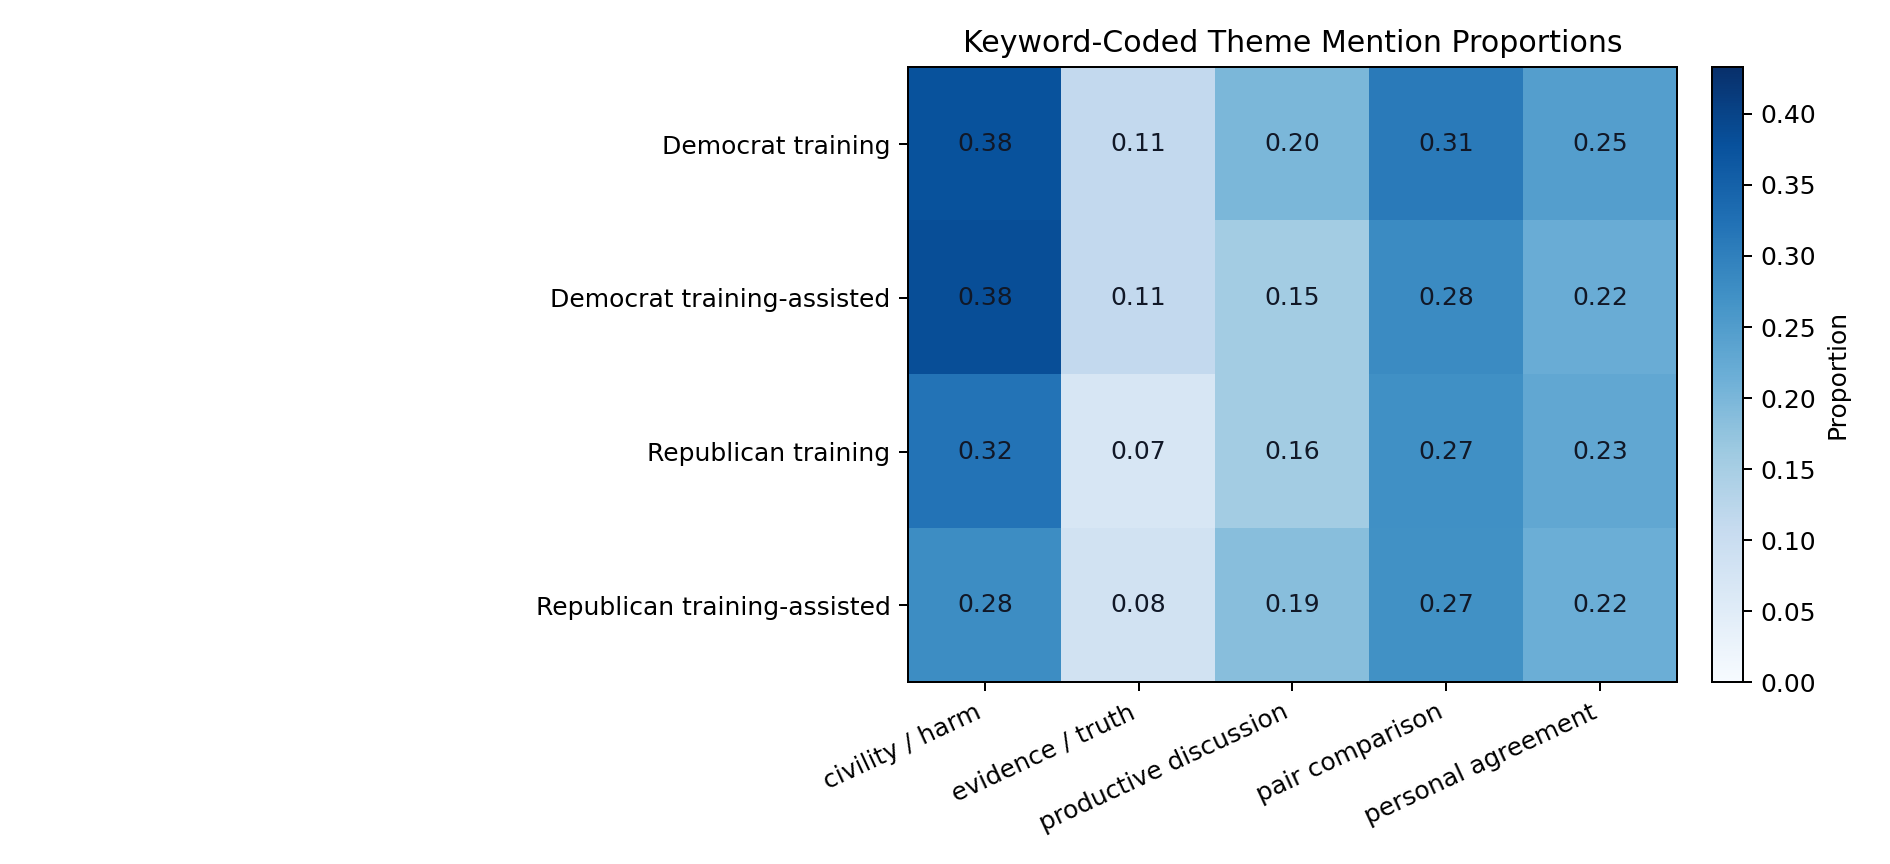
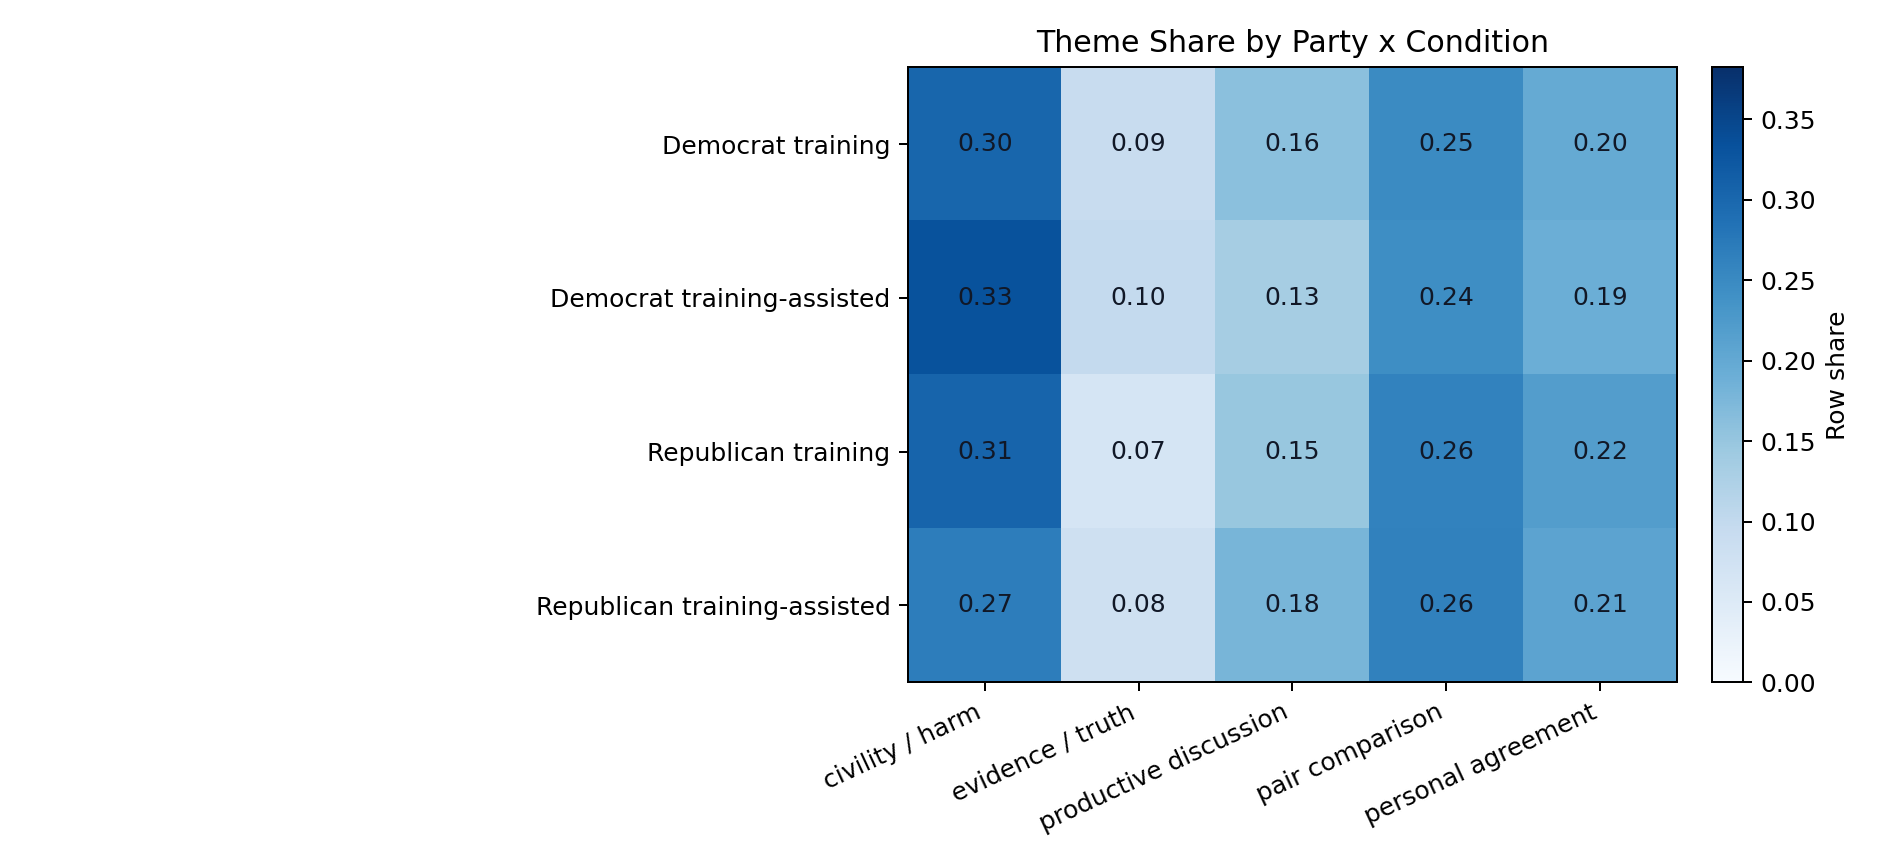
Add cleaned-up analysis

diff --git a/experiments/free_response_analysis_2026_04_28/main.py b/experiments/free_response_analysis_2026_04_28/main.py
@@ -419,14 +419,26 @@ def group_label(key: tuple[str, str]) -> str:
 
 def save_mean_influence_plot(df: pd.DataFrame) -> Path:
     keys = ordered_group_keys(df)
-    means = [
-        df.loc[(df["party_group"] == party) & (df["condition"] == condition), INFLUENCE_COL].mean()
-        for party, condition in keys
-    ]
+    means: list[float] = []
+    ci95_half_widths: list[float] = []
+    for party, condition in keys:
+        values = df.loc[(df["party_group"] == party) & (df["condition"] == condition), INFLUENCE_COL]
+        means.append(float(values.mean()))
+        std = float(values.std(ddof=1))
+        n = int(values.shape[0])
+        se = safe_divide(std, math.sqrt(n))
+        ci95_half_widths.append(1.96 * se)
     colors = ["#4C78A8" if party == "democrat" else "#F58518" for party, _ in keys]
 
     fig, ax = plt.subplots(figsize=(8.5, 5.2))
-    bars = ax.bar(range(len(keys)), means, color=colors)
+    bars = ax.bar(
+        range(len(keys)),
+        means,
+        yerr=ci95_half_widths,
+        capsize=6,
+        ecolor="#374151",
+        color=colors,
+    )
     ax.set_title("Mean Phase 1 Pair-Reflection Influence Rating")
     ax.set_ylabel("Mean rating (1-7)")
     ax.set_ylim(0, 7)
@@ -444,23 +456,26 @@ def save_mean_influence_plot(df: pd.DataFrame) -> Path:
 
 def save_rating_distribution_plot(df: pd.DataFrame) -> Path:
     keys = ordered_group_keys(df)
-    ratings = list(range(1, 8))
+    values = [
+        df.loc[(df["party_group"] == party) & (df["condition"] == condition), INFLUENCE_COL].to_numpy()
+        for party, condition in keys
+    ]
 
     fig, ax = plt.subplots(figsize=(9.5, 5.4))
-    for key in keys:
-        party, condition = key
-        group = df.loc[(df["party_group"] == party) & (df["condition"] == condition)]
-        proportions = group[INFLUENCE_COL].round().astype(int).value_counts(normalize=True)
-        y = [float(proportions.get(rating, 0.0)) for rating in ratings]
-        ax.plot(ratings, y, marker="o", linewidth=2, label=group_label(key).replace("\n", " "))
+    boxplot = ax.boxplot(
+        values,
+        tick_labels=[group_label(key) for key in keys],
+        showfliers=False,
+        patch_artist=True,
+    )
+    for box, key in zip(boxplot["boxes"], keys, strict=True):
+        box.set_facecolor("#4C78A8" if key[0] == "democrat" else "#F58518")
+        box.set_alpha(0.55)
 
-    ax.set_title("Influence Rating Distribution by Party x Condition")
-    ax.set_xlabel("Influence rating")
-    ax.set_ylabel("Proportion of responses")
-    ax.set_xticks(ratings)
-    ax.set_ylim(0, 0.32)
-    ax.grid(alpha=0.25)
-    ax.legend(frameon=False, fontsize=9)
+    ax.set_title("Rating Distribution (Box-and-Whisker)")
+    ax.set_ylabel("Influence rating (1-7)")
+    ax.set_ylim(1, 7)
+    ax.grid(axis="y", alpha=0.25)
     fig.tight_layout()
 
     path = PLOTS_DIR / "influence_rating_distribution.png"
@@ -503,17 +518,22 @@ def save_theme_heatmap(df: pd.DataFrame) -> Path:
     matrix: list[list[float]] = []
     for party, condition in keys:
         group = df.loc[(df["party_group"] == party) & (df["condition"] == condition)]
-        matrix.append([safe_divide(int(group[f"theme__{theme}"].sum()), len(group)) for theme in themes])
+        theme_counts = [int(group[f"theme__{theme}"].sum()) for theme in themes]
+        total_mentions = sum(theme_counts)
+        if total_mentions <= 0:
+            matrix.append([0.0 for _ in themes])
+        else:
+            matrix.append([count / total_mentions for count in theme_counts])
 
     fig, ax = plt.subplots(figsize=(10.5, 4.8))
     image = ax.imshow(matrix, cmap="Blues", vmin=0, vmax=max(max(row) for row in matrix) + 0.05)
-    ax.set_title("Keyword-Coded Theme Mention Proportions")
+    ax.set_title("Theme Share by Party x Condition")
     ax.set_xticks(range(len(themes)), themes, rotation=25, ha="right")
     ax.set_yticks(range(len(keys)), [group_label(key).replace("\n", " ") for key in keys])
     for row_idx, row in enumerate(matrix):
         for col_idx, value in enumerate(row):
             ax.text(col_idx, row_idx, f"{value:.2f}", ha="center", va="center", color="#111827")
-    fig.colorbar(image, ax=ax, fraction=0.035, pad=0.02, label="Proportion")
+    fig.colorbar(image, ax=ax, fraction=0.035, pad=0.02, label="Row share")
     fig.tight_layout()
 
     path = PLOTS_DIR / "theme_mentions_heatmap.png"

diff --git a/experiments/free_response_analysis_2026_04_28/WRITEUP.md b/experiments/free_response_analysis_2026_04_28/WRITEUP.md
@@ -54,13 +54,13 @@ The plots below are generated by `main.py` and saved as stable PNG artifacts.
 The mean-rating plot makes the main descriptive treatment pattern easy to see:
 `training_assisted` is higher than `training` for both party groups. Democrats in
 `training_assisted` have the highest mean influence rating, while Republicans in `training`
-have the lowest.
+have the lowest. Error bars show approximate 95% confidence intervals around each cell mean.
 
 ![Influence rating distribution](plots/influence_rating_distribution.png)
 
-The rating-distribution plot is useful because the group means hide meaningful shape
-differences. The Republican training cell has the most visible lower-rating mass, especially
-at rating `1`, while the assisted cells shift more mass into ratings `5-7`.
+This rating-distribution box-and-whisker plot shows the median and spread of ratings in each
+party x condition cell. It helps compare distribution shape directly (center, IQR, whiskers)
+without collapsing everything to a single mean.
 
 ![Reflection word-count boxplot](plots/reflection_word_count_boxplot.png)
 
@@ -70,87 +70,20 @@ difference in response verbosity or completion quality.
 
 ![Theme mention heatmap](plots/theme_mentions_heatmap.png)
 
-The heatmap summarizes the simple keyword-coded theme EDA. Civility / harm is the dominant
-theme across cells, Democrats mention evidence / truth more often than Republicans, and
-pair-comparison language appears in roughly a quarter to a third of responses.
+Keyword categories used in the heatmap:
 
-## Party x Condition Counts
+| Category | Example keywords / stems matched |
+| --- | --- |
+| Civility / harm | `civility`, `civil`, `curse`, `cuss`, `hate`, `hateful`, `harm`, `insult`, `mean`, `offensive`, `profane`, `profanity`, `rude`, `threat`, `toxic`, `violence`, `violent` |
+| Evidence / truth | `accurate`, `accuracy`, `evidence`, `fact`, `facts`, `false`, `lie`, `lies`, `misinformation`, `misleading`, `truth`, `true`, `untrue` |
+| Productive discussion | `conversation`, `debate`, `discuss`, `discussion`, `productive`, `respect`, `respectful`, `viewpoint`, `viewpoints` |
+| Pair comparison | `both`, `compare`, `compared`, `comparable`, `counterpart`, `mirror`, `pair`, `same`, `similar` |
+| Personal agreement | `agree`, `agreed`, `disagree`, `disagreed`, `belief`, `believe`, `opinion`, `opinions` |
 
-| Party | Condition | Rows | Users | Share of rows |
-| --- | ---: | ---: | ---: | ---: |
-| democrat | training | 337 | 336 | 0.255 |
-| democrat | training-assisted | 337 | 335 | 0.255 |
-| republican | training | 322 | 321 | 0.244 |
-| republican | training-assisted | 324 | 324 | 0.245 |
-
-The retained free-response rows are well balanced across the four party x condition cells.
-There are only minor differences in cell size, so the descriptive comparisons below are not
-being driven by a large imbalance in sample size.
-
-## Influence Ratings
-
-| Party | Condition | n | Mean | Median | SD | Low 1-3 | Mid 4 | High 5-7 |
-| --- | ---: | ---: | ---: | ---: | ---: | ---: | ---: | ---: |
-| democrat | training | 337 | 4.774 | 5.000 | 1.703 | 0.187 | 0.223 | 0.591 |
-| democrat | training-assisted | 337 | 5.116 | 5.000 | 1.582 | 0.128 | 0.202 | 0.671 |
-| republican | training | 322 | 4.646 | 5.000 | 1.897 | 0.224 | 0.202 | 0.575 |
-| republican | training-assisted | 324 | 4.873 | 5.000 | 1.724 | 0.176 | 0.188 | 0.636 |
-
-The clearest descriptive pattern is that `training_assisted` has higher reported influence
-than `training` for both party groups. The increase is larger among Democrats
-(`5.116` vs. `4.774`) than Republicans (`4.873` vs. `4.646`), but the direction is the same.
-
-The Republican training cell has the lowest mean rating and the largest standard deviation,
-with `22.4%` of responses in the low `1-3` range. The Democrat training-assisted cell has
-the strongest reported influence, with `67.1%` of ratings in the high `5-7` range.
-
-## Rating Distribution
-
-| Party | Condition | 1 | 2 | 3 | 4 | 5 | 6 | 7 |
-| --- | ---: | ---: | ---: | ---: | ---: | ---: | ---: | ---: |
-| democrat | training | 20 | 24 | 19 | 75 | 68 | 73 | 58 |
-| democrat | training-assisted | 14 | 13 | 16 | 68 | 61 | 96 | 69 |
-| republican | training | 39 | 13 | 20 | 65 | 61 | 62 | 62 |
-| republican | training-assisted | 23 | 17 | 17 | 61 | 68 | 79 | 59 |
-
-The rating distributions show why means alone understate the story. All four cells have many
-ratings at `5`, `6`, and `7`, but the Republican training condition has noticeably more `1`
-ratings (`39`) than the other cells.
-
-## Reflection Length
-
-| Party | Condition | Mean words | Median words | P75 words | Mean chars | Mean sentences | Mean words / sentence |
-| --- | ---: | ---: | ---: | ---: | ---: | ---: | ---: |
-| democrat | training | 27.991 | 24.000 | 35.000 | 167.490 | 1.858 | 14.890 |
-| democrat | training-assisted | 27.528 | 23.000 | 34.000 | 165.418 | 1.866 | 14.819 |
-| republican | training | 26.342 | 22.500 | 33.000 | 156.761 | 1.783 | 15.220 |
-| republican | training-assisted | 25.969 | 23.000 | 33.000 | 155.160 | 1.833 | 14.107 |
-
-Reflection length is broadly similar across cells. Democrats wrote slightly longer responses
-on average, but the differences are small: about `1.6-2.0` words longer than the Republican
-cells. This does not look like a major compliance or engagement imbalance.
-
-## Cursory Theme Mentions
-
-Theme mentions are based on simple keyword patterns, not validated hand coding. They should
-be interpreted as quick EDA signals rather than final content-analysis labels.
-
-| Party | Condition | Civility / harm | Evidence / truth | Productive discussion | Pair comparison | Personal agreement |
-| --- | ---: | ---: | ---: | ---: | ---: | ---: |
-| democrat | training | 0.377 | 0.113 | 0.199 | 0.309 | 0.246 |
-| democrat | training-assisted | 0.383 | 0.113 | 0.154 | 0.282 | 0.220 |
-| republican | training | 0.320 | 0.068 | 0.155 | 0.273 | 0.230 |
-| republican | training-assisted | 0.278 | 0.083 | 0.185 | 0.272 | 0.216 |
-
-The most common keyword-coded theme is civility / harm. That is consistent with the raw
-responses: many users described judging posts based on profanity, hateful language, insults,
-threats, or whether the post would support civil discussion.
-
-Democrats mention civility / harm more often than Republicans in both conditions. Evidence /
-truth mentions are less common overall, but Democrats also mention them more often than
-Republicans. Pair-comparison language appears in roughly a quarter to a third of responses,
-which indicates that many participants explicitly reasoned about the paired structure rather
-than only about one post at a time.
+The heatmap is row-normalized: within each party x condition row, the five theme shares sum to
+`1.0`. This makes the figure comparative within each subgroup, so you can see which theme is
+most prominent relative to that subgroup's own total theme mentions. Under this normalization,
+civility / harm remains the largest share in every row.
 
 ## Top Terms
 